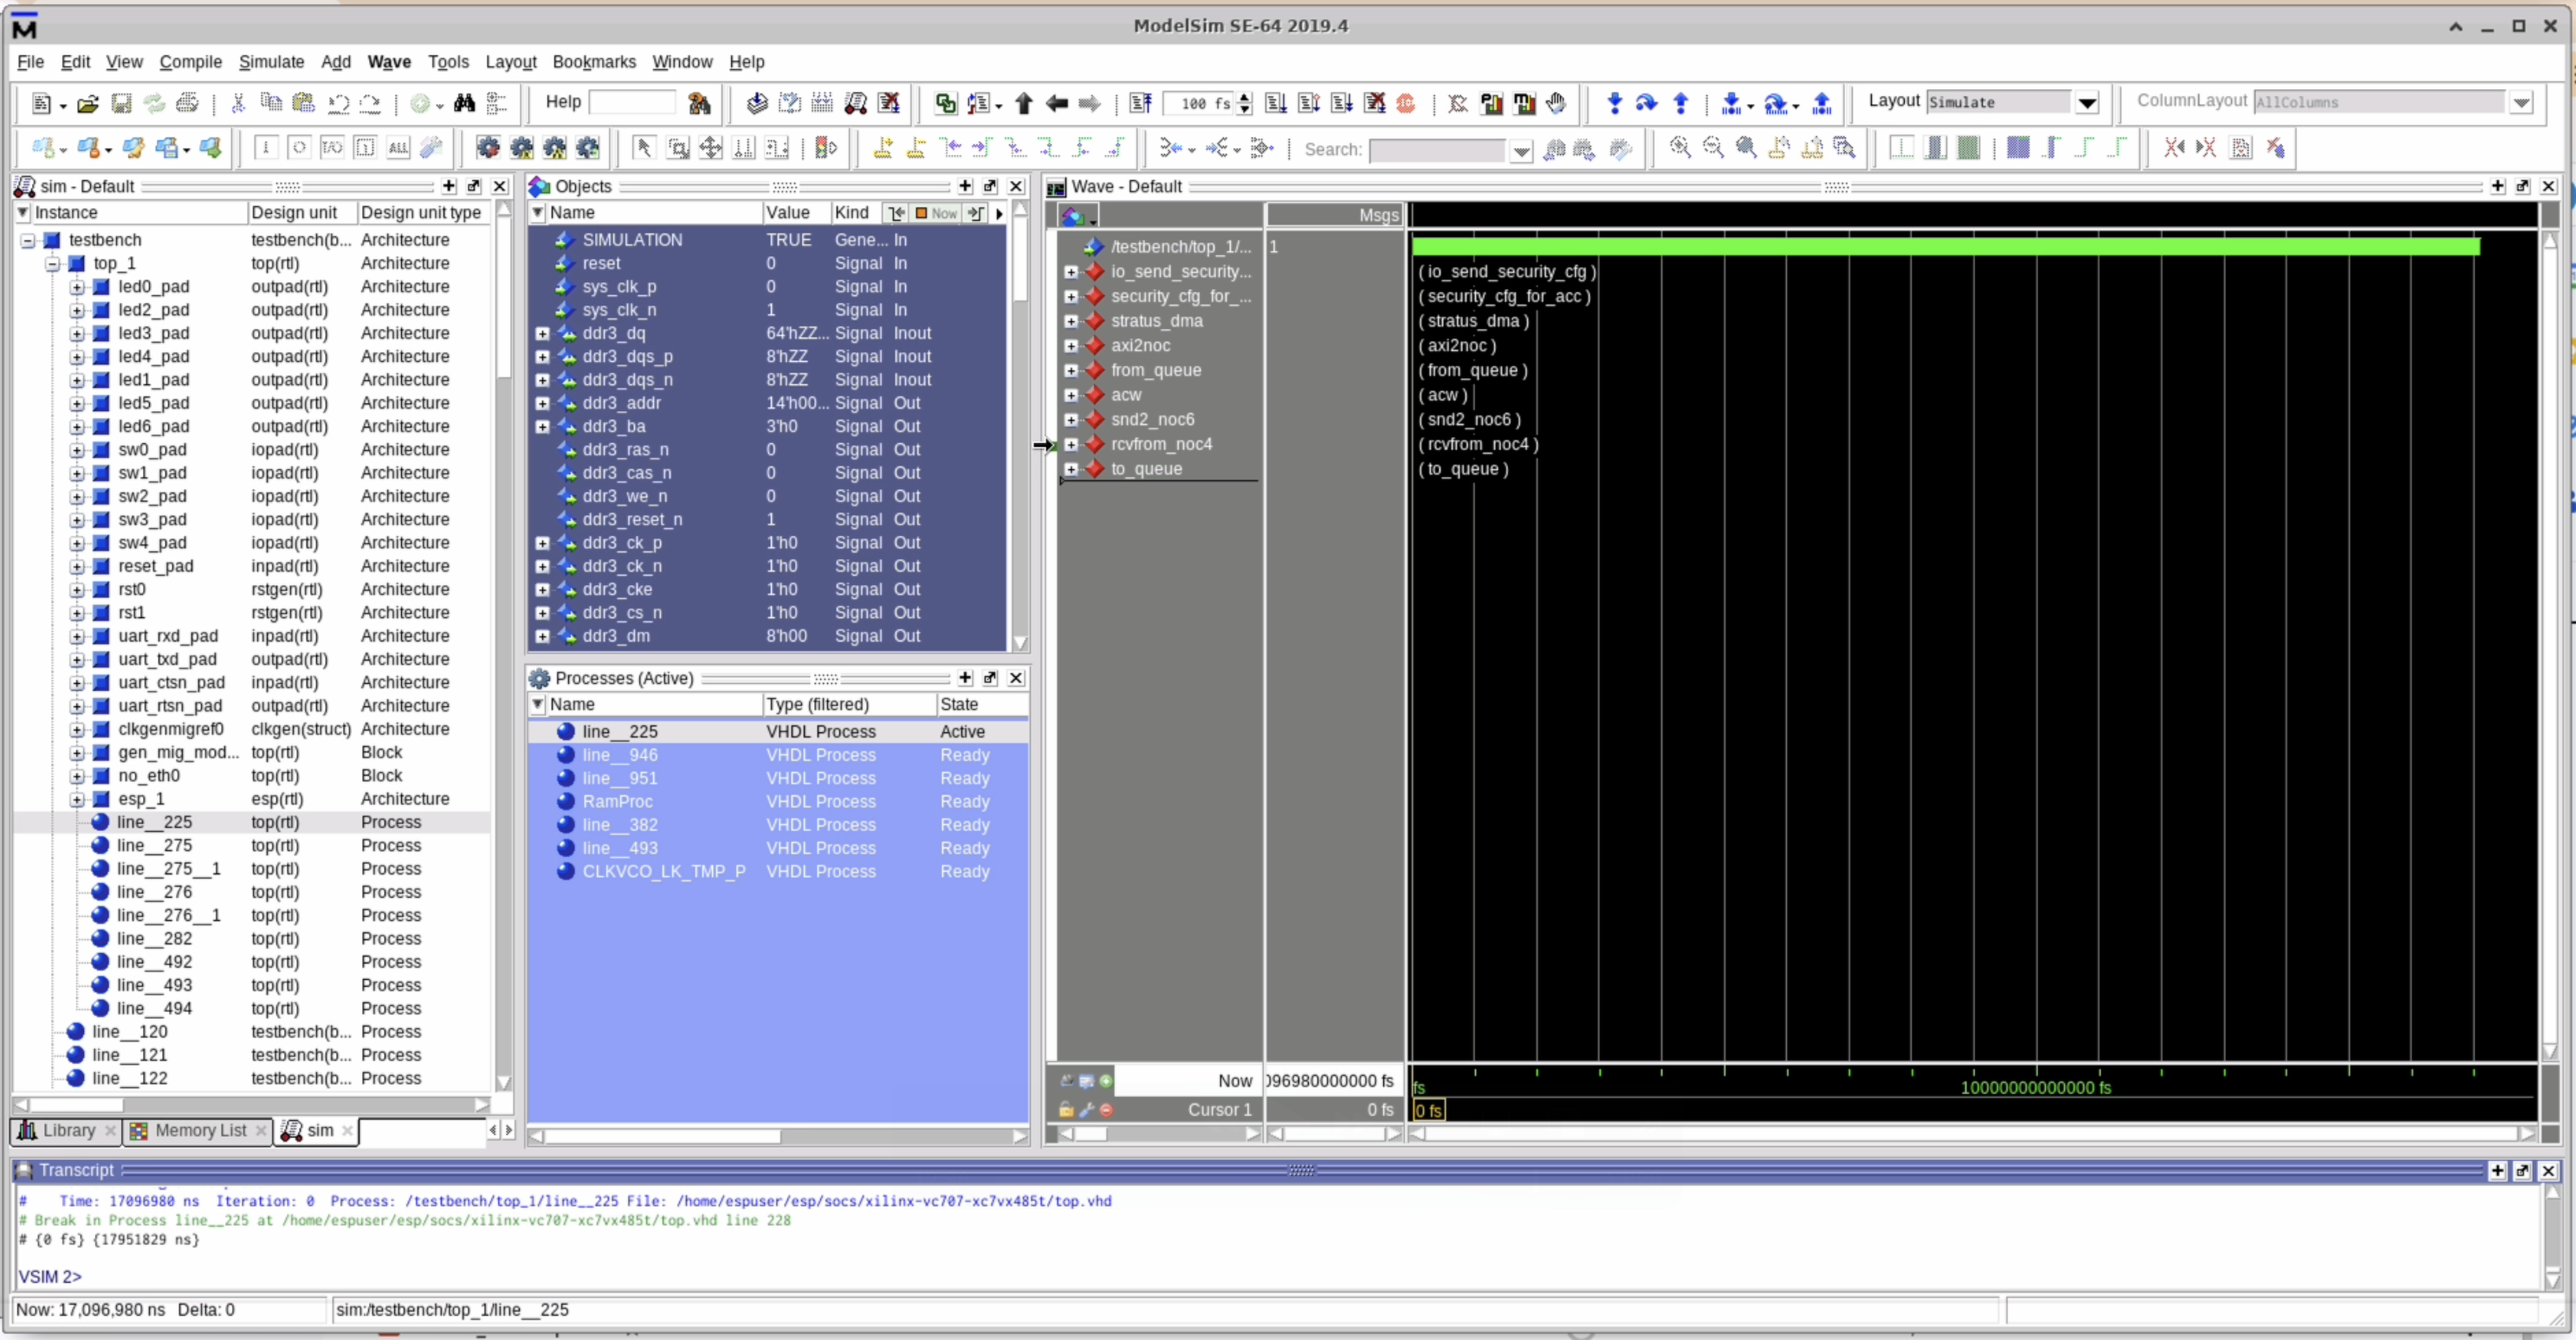
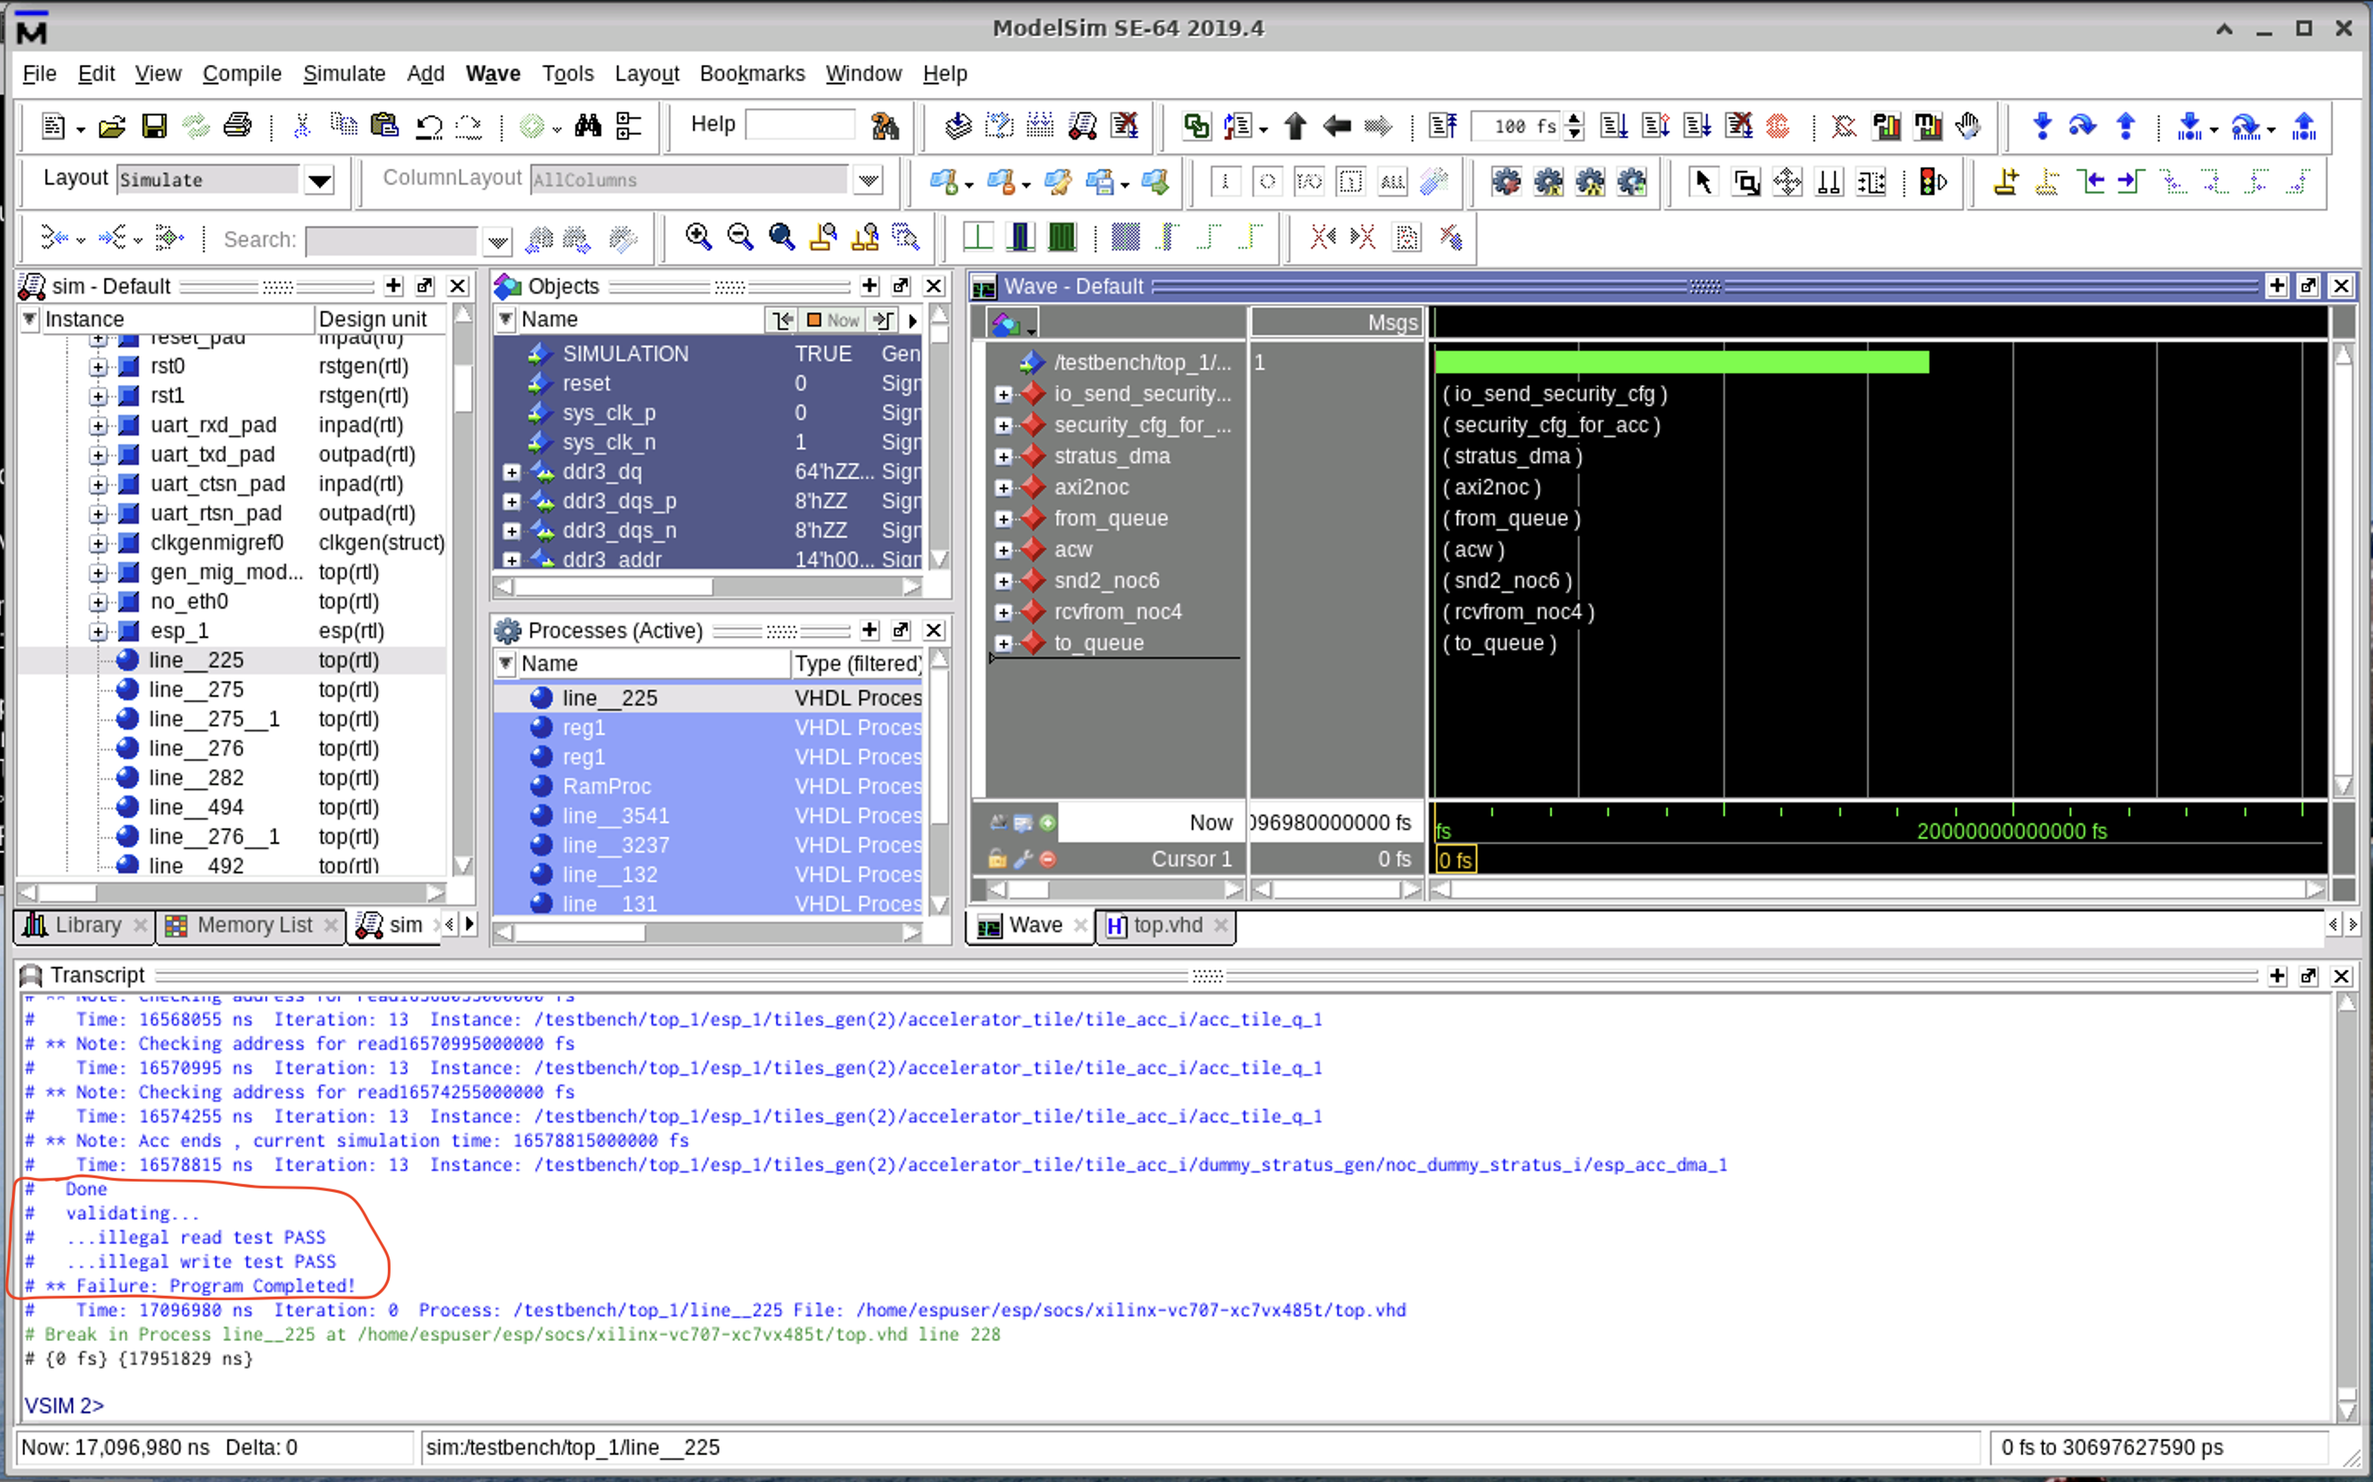
Updated readme

diff --git a/README.md b/README.md
@@ -4,49 +4,65 @@
 
 This repository is a minimal example for the paper:
 
-> *A Framework for Secure Third-Party IP Integration in NoC-based SoC Platforms*
+> *A Framework for Secure Third-Party IP Integration in NoC-based SoC Platforms* 
 
+## Repo structure
 
-This project is built on top of the [ESP platform](https://www.esp.cs.columbia.edu). For ESP usage and background, please check the [ESP documentation and tutorials](https://esp.cs.columbia.edu/docs/).
+This project is built on top of the [ESP platform](https://www.esp.cs.columbia.edu). For background and ESP general usage instructions, please refer to the [ESP documentation and tutorials](https://esp.cs.columbia.edu/docs/).
 
-The example is based on [this commit](https://github.com/sld-columbia/esp/tree/607b249f06fb257c50e6f4e2e9d8a447f92eb1ee) of the [ESP project](https://github.com/sld-columbia/esp). 
+The example is based on [this commit](https://github.com/sld-columbia/esp/tree/607b249f06fb257c50e6f4e2e9d8a447f92eb1ee) of the [ESP repository](https://github.com/sld-columbia/esp). The overall code structure is well documented in the [original ESP README](original_README.md). Bastion maintains the ESP hardware and software structure, with modifications to a few socket modules.
 
+* `rtl/sockets/queues/acc_tile_queue.vhd` This file handles the accelerator tile’s interaction with the NoC. Bastion embeds security mechanisms here to detect and block unauthorized memory transactions initiated by third-party accelerators.
+
+* `rtl/sockets/queues/misc_tile_queue.vhd` This file handles the I/O tile’s interaction with the NoC. The I/O tile is treated as a trusted entity and is responsible for transmitting security configurations to other tiles.
+
+Instead of using a pure RTL testbench, users can simulate the full hardware and firmware stack to approximate a more realistic setup. The top-level firmware also serves the purpose of a testbench.
+
+* `accelerators/stratus_hls/dummy_stratus/sw/baremetal/dummy.c` is the top-level firmware for this experiment. It initializes the accelerator, deliberately modifies the page table to introduce unauthorized memory regions, and instructs the accelerator to access them. After execution, the firmware checks the corresponding memory regions to verify whether the security mechanisms correctly blocked the unauthorized accesses and returned protocol-compliant responses back to the accelerator.
 
 ## Tools
 * Docker
 * ModelSim 2019.4 
 * Vivado 2019.2
-* Stratus HLS
+* Stratus HLS 20.24
 
-Using other versions of Questa / Vivado might require modifying the Makefiles.
+Using other versions of Questa or Vivado may require modifying the Makefiles. 
 
 ## Steps
 
 ### 1. Configure EDA Tools and Start the Docker
 
+* Clone the repo recursively
+```bash
+git clone --recurse-submodules https://github.com/KastnerRG/ESP-Bastion.git
+```
+
 * Edit `./scripts/esp_env_cad.sh` to specify the paths to Vivado, Stratus HLS, and ModelSim/Questa.
 
-* Download the Docker image and launch it with local volumes, including the EDA tools and this repository:
+* Download the Docker image and launch it with local volumes mounted for both the EDA tools and this repository. This repo should be mounted as a local volume to allow future edits and reuse outside the container.
 
 ```bash
 docker run -it --security-opt label=type:container_runtime_t --network=host -e DISPLAY=$DISPLAY -v "$HOME/.Xauthority:/root/.Xauthority:rw" -v "/opt:/opt" -v "./ESP-Bastion:/home/espuser/esp" davidegiri/esp-tutorial:asplos2021 /bin/bash
 ```
-* Inside the Docker container, configure the environment variables:
+* Inside the Docker container, configure the environment variables
 ```bash
 source esp/scripts/esp_env_cad.sh
 ```
 
 ### 2. Generate HLS Accelerator
-* This example uses a dummy stratus accelerator. Users are required to generate the RTL and memory map of the accelerator using Stratus HLS. The HLS source code is under `accelerators/stratus_hls/dummy_stratus`. 
-* Check [here](https://esp.cs.columbia.edu/docs/systemc_acc/) for a tutorial on how to generate an accelerator using Cadence Stratus HLS.
+* This example uses a dummy accelerator written for Stratus HLS. Users are expected to generate the RTL and memory map from the HLS source code located in `accelerators/stratus_hls/dummy_stratus`. 
+* A detailed tutorial on generating accelerators using Cadence Stratus HLS and integrating them with the ESP platform is available [here](https://esp.cs.columbia.edu/docs/systemc_acc/).
 
-* Place the generated accelerator RTL and memory map under
+* After generation, place the accelerator RTL and memory map in the following directories:
 ```bash
 tech/virtex7/acc
 tech/virtex7/memgen
 ```
 
+* Reviewers: If you encounter difficulties accessing or using the Stratus HLS tool, please contact us and we can provide the synthesized RTL files privately.
+
 ### 3. Configure SoC architecture
+
 * Enter directory 
 ```bash
 socs/xilinx-vc707-xc7vx485t
@@ -55,30 +71,49 @@ socs/xilinx-vc707-xc7vx485t
 ```bash
 make esp-xconfig
 ``` 
-* Design a minimal SoC with CPU, memory, I/O, and accelerator tiles. Make sure to select the Ariane core and Dummy Stratus accelerator.
+![Diagram](readme_pics/pre-config.png)
+
+* The default SoC configuration is shown in the screenshot above. For this experiment, we use a 2×2 NoC, select **Ariane** as the CPU core, and **Dummy Stratus** as the accelerator. If the user wishes to test the security features, the "Enable Security features" box should be checked. A fully configured SoC should look like the screenshot below.
+
 ![Diagram](readme_pics/configure.png)
 
-* Click on the "Generate SoC Config" before closing the window.
+* Click on `Generate SoC Config` before closing the window.
 
-### 4. Enable/Disable Security Features
-* Enable or disable security features by checking or unchecking the "Enable security features" box in the SoC configuration GUI (previous step).
+### 4. Enable/Disable Security Features in Firmware
 
-* Edit line 29 (SECURITY_ON) in `accelerators/stratus_hls/dummy_stratus/sw/baremetal/dummy.c` to match the security configuration. This ensures the firmware verifies the expected security behavior.
+* Edit line 29 (SECURITY_ON) in `accelerators/stratus_hls/dummy_stratus/sw/baremetal/dummy.c` to match the selected security configuration in the previous step. This ensures the firmware correctly verifies the expected security behavior.
 
 ### 5. Run Simulation
-* Enter directory `socs/xilinx-vc707-xc7vx485t`, to run simulation with ModelSim GUI, 
+* Navigate to the `/home/espuser/esp/socs/xilinx-vc707-xc7vx485t` directory and run the following bash script to launch the simulation with the ModelSim GUI. This will compile both the RTL and firmware, and then start a full SoC simulation.
 ```bash
 source dummy_stratus_sim.sh
 ```
-* Once inside Modelsim, execute
+* We provide a convenient simulation script that organizes key security-related signals into several waveform groups for easier debugging and analysis:
+    * Group `io_send_security_cfg` shows the security configuration flits sent from the I/O tile to the accelerator tile, along with relevant protocol signals.
+    * Group `security_cfg_for_acc` displays how the security module on the accelerator tile receives and applies the security configuration.
+    * Group `stratus_dma` captures AXI signals entering and exiting the accelerator, showing that the security module is transparent to the accelerator.
+    * Group `axi2noc` shows the protocol translation between AXI and NoC.
+    * Group `acw` shows the key registers and state machine of the security module on the accelerator tile.
+    * Groups `from_queue` and `to_queue` show the data interface between the security module and the accelerator tile.
+    * Groups `snd2_noc6` and `recvfrom_noc4` capture data exchange between the security module and the NoC, reflecting its interaction with the rest of the SoC.
+
+* Once ModelSim completes initialization, run the following `.tcl` script to start the RTL simulation and display the waveforms of security-related signals.
 ```bash
 source path/to/scripts/sim_op.tcl
 ```
-* This will run the RTL simulation and display waveforms of security-related signals.
 ![Diagram](readme_pics/waveform.png)
-* Alternatively, to launch ModelSim without GUI, 
+
+* The simulator will raise a "Program Completed" failure at the end of the simulation.
+    * Around 5295 ns: Security configuration flits transmission.
+    * Around 10,196,900 ns to 10,211,700 ns: A set of legal read and write operations.
+    * Around 16,557,300 ns to 16,582,600 ns: A set of illegal read and write operations.
+
+* Alternatively, to run ModelSim without the GUI, use the following command. 
 ```bash
 source cmddummy_stratus_sim.sh
 ```
-
+* To run the simulation without inspecting the waveforms and only verify the end result, simply use this command in ModelSim.
+```bash
+run -a
+```
 
